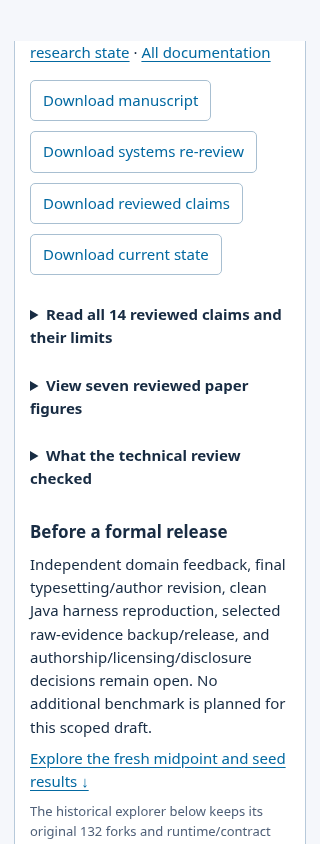
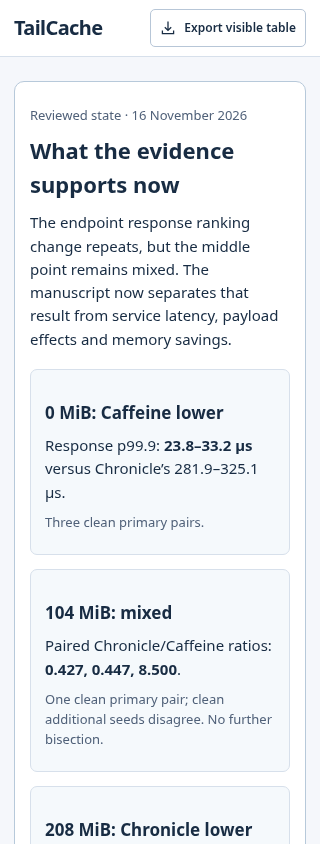
Record protected re-review deployment and final presentation checks

Changed region(s): [[0.0312, 0.0, 0.9688, 1.0]]

diff --git a/README.md b/README.md
@@ -26,11 +26,13 @@ TailCache is designed to answer questions such as:
 
 The smoke harness keeps the working set below the configured entry setting so validation runs avoid eviction/capacity exhaustion. The reportable experiment will freeze backend-specific occupancy semantics explicitly before comparing latency distributions, because Caffeine `maximumSize` and Chronicle Map `entries` are not equivalent controls.
 
-## Current results and manuscript (reviewed 15 November 2026)
+## Current results and manuscript (reviewed 16 November 2026)
 
 Start with the [current research state](docs/TAILCACHE_CURRENT_STATE.md) and [complete documentation index](docs/DOCUMENTATION_INDEX.md). The [protected hosted explorer](https://tailcache-results.vercel.app/#review-update) includes the reviewed RQ answers, manuscript downloads, 14 claims and seven paper figures. Manuscript work continues in [draft PR #10](https://github.com/Enixes/TailCache/pull/10).
 
 The [preprint working package](docs/preprint/README.md) contains the editable manuscript draft, claim-to-evidence map, static paper figures and offline figure reproduction. It is working material, not a submitted or author-approved preprint.
+
+The [second systems research review](docs/preprint/RE_REVIEW_20261116.md) reconciled raw focused/follow-up distributions and the original conditional campaign without finding a numerical discrepancy. It clarifies that the primary periodic trace accesses 23,169 of 32,768 retained keys and updates 1,939 distinct keys, compares complete library configurations rather than isolating heap placement, and preserves CPU/compiler warnings on the short controls. This is an agent assessment, not independent human peer review.
 
 The [midpoint results and researcher review](docs/TAILCACHE_MIDPOINT_RESULTS.md) and [interactive explorer](docs/TAILCACHE_RESULTS_EXPLORER.html) report the later replicated follow-up. For ordinary 4 KiB access, scheduled-response p99.9 favors Caffeine at 0 MiB and Chronicle at 208 MiB of common retained application data; 104 MiB is mixed across pairs and seeds. The crossover remains bracketed rather than precisely located. Chronicle's scheduled-response p99.99 and p99.999 advantage already exists at baseline. Lower Java heap occupancy did not imply lower process RSS. Service latency, scheduled response and buffer reuse remain separate comparisons.
 
